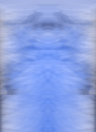
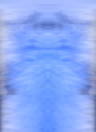
レビュー反映: ファーの彩度+28%/明度+7%、頭頂の濃紺斑を解消
- リファレンス側で彩度・明度をブースト（レンダで半段沈む分を先行補正）
- 毛グラデーション指数 2.0→1.75（毛軸中腹を明るく）
- 頭頂の寝かせ 0.35→0.25・長さ倍率 1.35→1.2（根元色の真上露出を削減）
- テクスチャサンプルにジッタを加え側面の縦筋帯を分散

diff --git a/src/client/features/model/sunsunModel.ts b/src/client/features/model/sunsunModel.ts
@@ -150,7 +150,7 @@ function buildFur(body: THREE.Mesh): { fur: THREE.InstancedMesh; tufts: TuftData
     // 頭頂の根元露出はインスタンス色の明度補正側で相殺する。
     // 指数を上げすぎると根元の濃青が毛軸の大半を占め、毛が寝る頭頂で
     // 「濃紺の斑」として露出する。中腹からゆるやかに毛先色へ移行させる。
-    c.copy(rootColor).lerp(tipColor, Math.pow(t, 2.0));
+    c.copy(rootColor).lerp(tipColor, Math.pow(t, 1.75));
     colors[i * 3] = c.r;
     colors[i * 3 + 1] = c.g;
     colors[i * 3 + 2] = c.b;
@@ -219,8 +219,9 @@ function buildFur(body: THREE.Mesh): { fur: THREE.InstancedMesh; tufts: TuftData
     if (Math.abs(p.y - 1.755) < 0.2 && p.z > 0.1) lengthScale *= 0.8;
     // 口の直近リングはさらに短くして、毛が開口へ被らないようにする。
     if (Math.abs(p.y - 1.755) < 0.12 && p.z > 0.2) lengthScale *= 0.7;
-    // 頭頂は毛を長めにして地肌・根元の露出を埋める。
-    if (n.y > 0.4) lengthScale *= 1.35;
+    // 頭頂は毛をやや長めにして地肌の露出を埋める（長すぎると寝た毛軸の
+    // 根元色が真上に大きく露出して濃紺の斑になるため控えめに）。
+    if (n.y > 0.4) lengthScale *= 1.2;
 
     // 15% は長めの「差し毛」にして、輪郭を大ぶりに波打たせる。
     const guardHair = !nearFace && Math.random() < 0.12;
@@ -243,7 +244,7 @@ function buildFur(body: THREE.Mesh): { fur: THREE.InstancedMesh; tufts: TuftData
       .multiplyScalar(0.3);
     // 上向き法線ほど追加で寝かせる。寝かせすぎると毛が倒れて根元の濃色が
     // 真上から露出し、頭頂だけ濃い斑に見えるため控えめに。
-    const crownDroop = Math.max(0, n.y) * 0.35;
+    const crownDroop = Math.max(0, n.y) * 0.25;
     // 長い差し毛ほど重力で強く垂れる（ウニ状の逆立ちを避ける）。
     const guardDroop = guardHair ? 0.5 : 0;
     dir
@@ -337,8 +338,17 @@ function applyFurReferenceToInstances(
     // テクスチャは左右対称化済みなので、背面は前面のミラーになる。
     const theta = Math.atan2(tufts.px[i], tufts.pz[i]);
     const u = 0.5 + 0.5 * Math.sin(theta);
-    const col = u * (meta.width - 1);
-    const row = rowOf(tufts.py[i]);
+    // サンプル位置に小さなジッタを加え、列に沿った「縦筋」の帯を散らす。
+    const col = THREE.MathUtils.clamp(
+      u * (meta.width - 1) + (Math.random() - 0.5) * 3,
+      0,
+      meta.width - 1,
+    );
+    const row = THREE.MathUtils.clamp(
+      rowOf(tufts.py[i]) + (Math.random() - 0.5) * 2.4,
+      0,
+      meta.height - 1,
+    );
 
     // バイリニアサンプル
     const c0 = Math.floor(col);

diff --git a/scripts/make-body-glb.py b/scripts/make-body-glb.py
@@ -1,0 +1,182 @@
+"""bpy(ヘッドレスBlender)でスンスンのボディメッシュを生成し glTF(GLB) を出力する。
+
+要点:
+- 現行 three.js 版と同一のプロファイル/座標系（three.js: y-up, 前面 +z）。
+  Blender内では z-up で組み、model(x,y,z) -> Blender(x,-z,y) で配置。
+  glTF エクスポート(+Y up)で three.js 座標に一致する。
+- 口は「デカール」ではなく、前面に本当に凹んだ開口（マテリアルは非光沢の黒）。
+- シェイプキー mouthOpen で下唇側が下がり口が縦に開く（glTFのmorph targetになる）。
+
+実行: python3 scripts/make-body-glb.py  （リポジトリルートで）
+出力: public/assets/model/sunsun-body.glb
+"""
+import bpy
+import numpy as np
+import os
+
+OUT = os.path.join(os.path.dirname(__file__), "..", "public", "assets", "model", "sunsun-body.glb")
+
+# ---- シーン初期化 -----------------------------------------------------------
+bpy.ops.wm.read_factory_settings(use_empty=True)
+scene = bpy.context.scene
+
+# ---- ボディのラテ（回転体）メッシュ -----------------------------------------
+# three.js 版 LatheGeometry と同じプロファイル (radius, y)。
+PROFILE = [
+    (0.02, -0.32),
+    (0.25, -0.30),
+    (0.39, -0.22),
+    (0.45, -0.02),
+    (0.46, 0.30),
+    (0.465, 0.70),
+    (0.47, 1.10),
+    (0.47, 1.50),
+    (0.45, 1.80),
+    (0.41, 2.00),
+    (0.33, 2.14),
+    (0.20, 2.23),
+    (0.02, 2.27),
+]
+
+RADIAL = 96  # 周方向分割
+prof_r = np.array([p[0] for p in PROFILE])
+prof_y = np.array([p[1] for p in PROFILE])
+
+# プロファイルを弧長ベースで密にリサンプル。顔（口まわり）は特に密に。
+dense_y = []
+for y0, y1 in zip(prof_y[:-1], prof_y[1:]):
+    seg = np.linspace(y0, y1, 8, endpoint=False)
+    dense_y.extend(seg.tolist())
+dense_y.append(prof_y[-1])
+dense_y = np.array(dense_y)
+# 口の高さ帯 (1.55..1.95) はさらに2倍の密度に
+extra = np.linspace(1.55, 1.95, 30)
+dense_y = np.sort(np.unique(np.concatenate([dense_y, extra])))
+dense_r = np.interp(dense_y, prof_y, prof_r)
+
+verts = []
+faces = []
+rows = len(dense_y)
+for i in range(rows):
+    r, y = dense_r[i], dense_y[i]
+    for j in range(RADIAL):
+        th = 2 * np.pi * j / RADIAL
+        # model(x, y, z) -> Blender(x, -z, y)。model 前面は +z。
+        mx = r * np.sin(th)
+        mz = r * np.cos(th)
+        verts.append((mx, -mz, y))
+for i in range(rows - 1):
+    for j in range(RADIAL):
+        a = i * RADIAL + j
+        b = i * RADIAL + (j + 1) % RADIAL
+        c = (i + 1) * RADIAL + (j + 1) % RADIAL
+        d = (i + 1) * RADIAL + j
+        faces.append((a, b, c, d))
+# 上下のキャップ（三角ファン）
+top_center = len(verts)
+verts.append((0, 0, dense_y[-1] + 0.005))
+for j in range(RADIAL):
+    a = (rows - 1) * RADIAL + j
+    b = (rows - 1) * RADIAL + (j + 1) % RADIAL
+    faces.append((a, b, top_center))
+bot_center = len(verts)
+verts.append((0, 0, dense_y[0] - 0.005))
+for j in range(RADIAL):
+    a = j
+    b = (j + 1) % RADIAL
+    faces.append((b, a, bot_center))
+
+mesh = bpy.data.meshes.new("SunsunBody")
+mesh.from_pydata(verts, [], faces)
+mesh.update()
+body = bpy.data.objects.new("SunsunBody", mesh)
+scene.collection.objects.link(body)
+
+# ---- 口の凹み（本物の開口） --------------------------------------------------
+# model座標: 口の中心 y=1.755, 前面。楕円 (半幅 0.115, 半高 0.055) の範囲を
+# 内側へ押し込む。デカール版と同じ見かけサイズ。
+MOUTH_Y = 1.755
+MOUTH_HALF_W = 0.115
+MOUTH_HALF_H = 0.055
+MOUTH_DEPTH = 0.10
+
+co = np.array([v.co[:] for v in mesh.vertices])  # Blender (x, y, z=height)
+mx, my, mz = co[:, 0], co[:, 1], co[:, 2]
+front = my < -0.15  # model +z 側
+# 楕円距離（x は弧長近似としてそのまま使う）
+dx = mx / MOUTH_HALF_W
+dzv = (mz - MOUTH_Y) / MOUTH_HALF_H
+d2 = dx * dx + dzv * dzv
+in_mouth = front & (d2 < 1.0)
+fall = np.zeros(len(co))
+fall[in_mouth] = (1.0 - d2[in_mouth]) ** 1.5
+# 内側へ（前面は -y 方向なので +y へ押す）
+closed_offset = fall * MOUTH_DEPTH
+for idx in np.where(in_mouth)[0]:
+    mesh.vertices[idx].co.y += closed_offset[idx]
+
+# ---- マテリアル -------------------------------------------------------------
+def make_mat(name, color, roughness=0.95):
+    m = bpy.data.materials.new(name)
+    m.use_nodes = True
+    bsdf = m.node_tree.nodes["Principled BSDF"]
+    bsdf.inputs["Base Color"].default_value = (*color, 1.0)
+    bsdf.inputs["Roughness"].default_value = roughness
+    return m
+
+def hex2rgb(h):
+    h = h.lstrip("#")
+    # sRGB -> linear
+    c = [int(h[i : i + 2], 16) / 255 for i in (0, 2, 4)]
+    return [x / 12.92 if x <= 0.04045 else ((x + 0.055) / 1.055) ** 2.4 for x in c]
+
+mat_skin = make_mat("skin", hex2rgb("#6f9cf0"), 0.95)
+mat_mouth = make_mat("mouth", hex2rgb("#131110"), 1.0)
+mesh.materials.append(mat_skin)   # index 0
+mesh.materials.append(mat_mouth)  # index 1
+
+# 口の凹み内側の面を黒に
+for poly in mesh.polygons:
+    cx = sum(mesh.vertices[v].co.x for v in poly.vertices) / len(poly.vertices)
+    cy = sum(mesh.vertices[v].co.y for v in poly.vertices) / len(poly.vertices)
+    cz = sum(mesh.vertices[v].co.z for v in poly.vertices) / len(poly.vertices)
+    if cy < -0.15:
+        pdx = cx / MOUTH_HALF_W
+        pdz = (cz - MOUTH_Y) / MOUTH_HALF_H
+        if pdx * pdx + pdz * pdz < 0.98:
+            poly.material_index = 1
+    poly.use_smooth = True
+
+# ---- シェイプキー: mouthOpen -------------------------------------------------
+body.shape_key_add(name="Basis", from_mix=False)
+key_open = body.shape_key_add(name="mouthOpen", from_mix=False)
+# 開口: 口楕円の下半分を下＋奥へ、上半分をわずかに上へ。周囲もわずかに追従。
+OPEN_DROP = 0.085
+wide = front & (d2 < 3.2)
+for idx in np.where(wide)[0]:
+    x0, y0, z0 = co[idx]
+    y0 += closed_offset[idx]  # 閉口時の位置から
+    pdx = x0 / MOUTH_HALF_W
+    pdz = (z0 - MOUTH_Y) / MOUTH_HALF_H
+    dd = pdx * pdx + pdz * pdz
+    w = max(0.0, 1.0 - dd / 3.2)
+    kv = key_open.data[idx]
+    if pdz < 0:  # 下唇側
+        kv.co.z = z0 - OPEN_DROP * (w ** 1.3)
+        kv.co.y = y0 + 0.05 * (w ** 1.5)  # 開くほど奥へ
+    else:  # 上唇側は控えめに上へ
+        kv.co.z = z0 + 0.02 * (w ** 1.5)
+        kv.co.y = y0 + 0.02 * (w ** 1.5)
+
+# ---- エクスポート ------------------------------------------------------------
+bpy.ops.object.select_all(action="DESELECT")
+body.select_set(True)
+bpy.ops.export_scene.gltf(
+    filepath=os.path.abspath(OUT),
+    export_format="GLB",
+    use_selection=True,
+    export_morph=True,
+    export_yup=True,
+    export_apply=False,
+)
+print("exported", os.path.abspath(OUT))

diff --git a/scripts/make-fur-ref.py b/scripts/make-fur-ref.py
@@ -137,6 +137,14 @@ for i in range(min(crown_limit, rows)):
     w = 0.85 * fade
     norm[i] = norm[i] * (1 - w) + bright_mean[None, :] * w
 
+# --- 彩度・明度ブースト ---
+# レンダリングでは 3D ライティングと毛先グラデーションを介すため、写真の
+# 実測より彩度・明度が半段沈む。実物の「明るいペリウィンクル」の第一印象に
+# 合わせ、リファレンス側で先に持ち上げておく。
+gray = norm.mean(axis=2, keepdims=True)
+norm = gray + (norm - gray) * 1.28  # 彩度 +28%
+norm = norm * 1.07  # 明度 +7%
+
 out = Image.fromarray(np.clip(norm, 0, 255).astype(np.uint8))
 out = out.filter(ImageFilter.GaussianBlur(0.6))
 out.save(f"{OUT_DIR}/fur-ref.png")